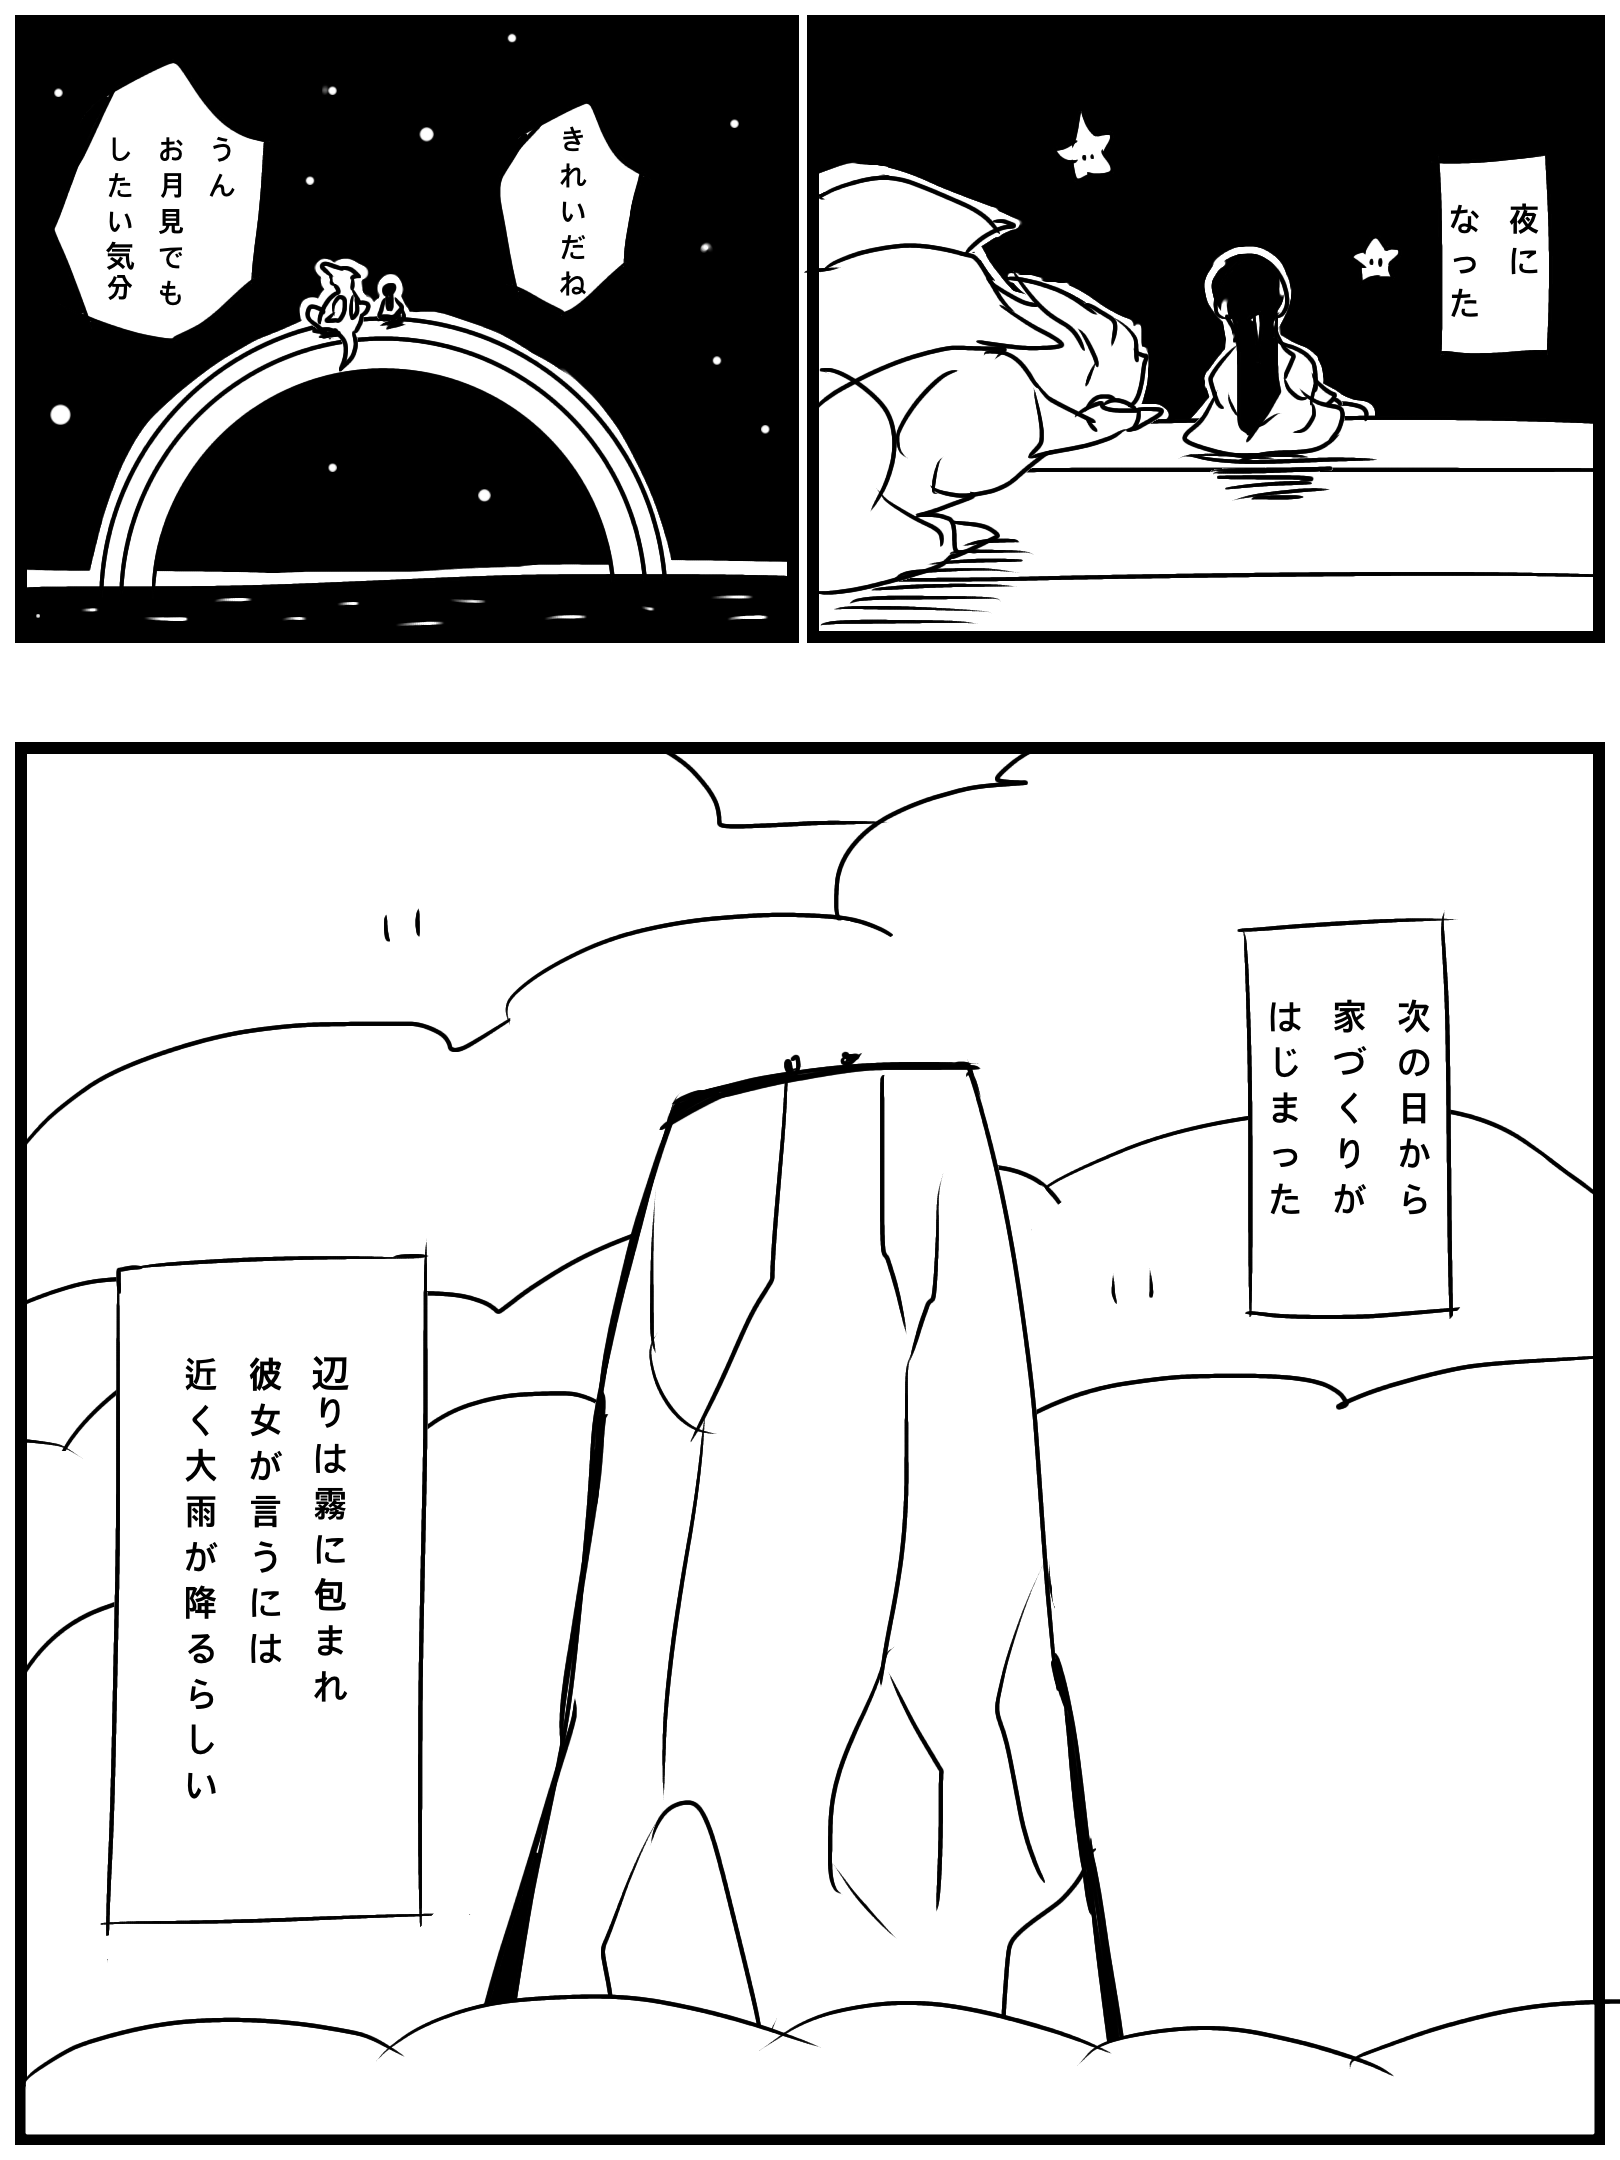
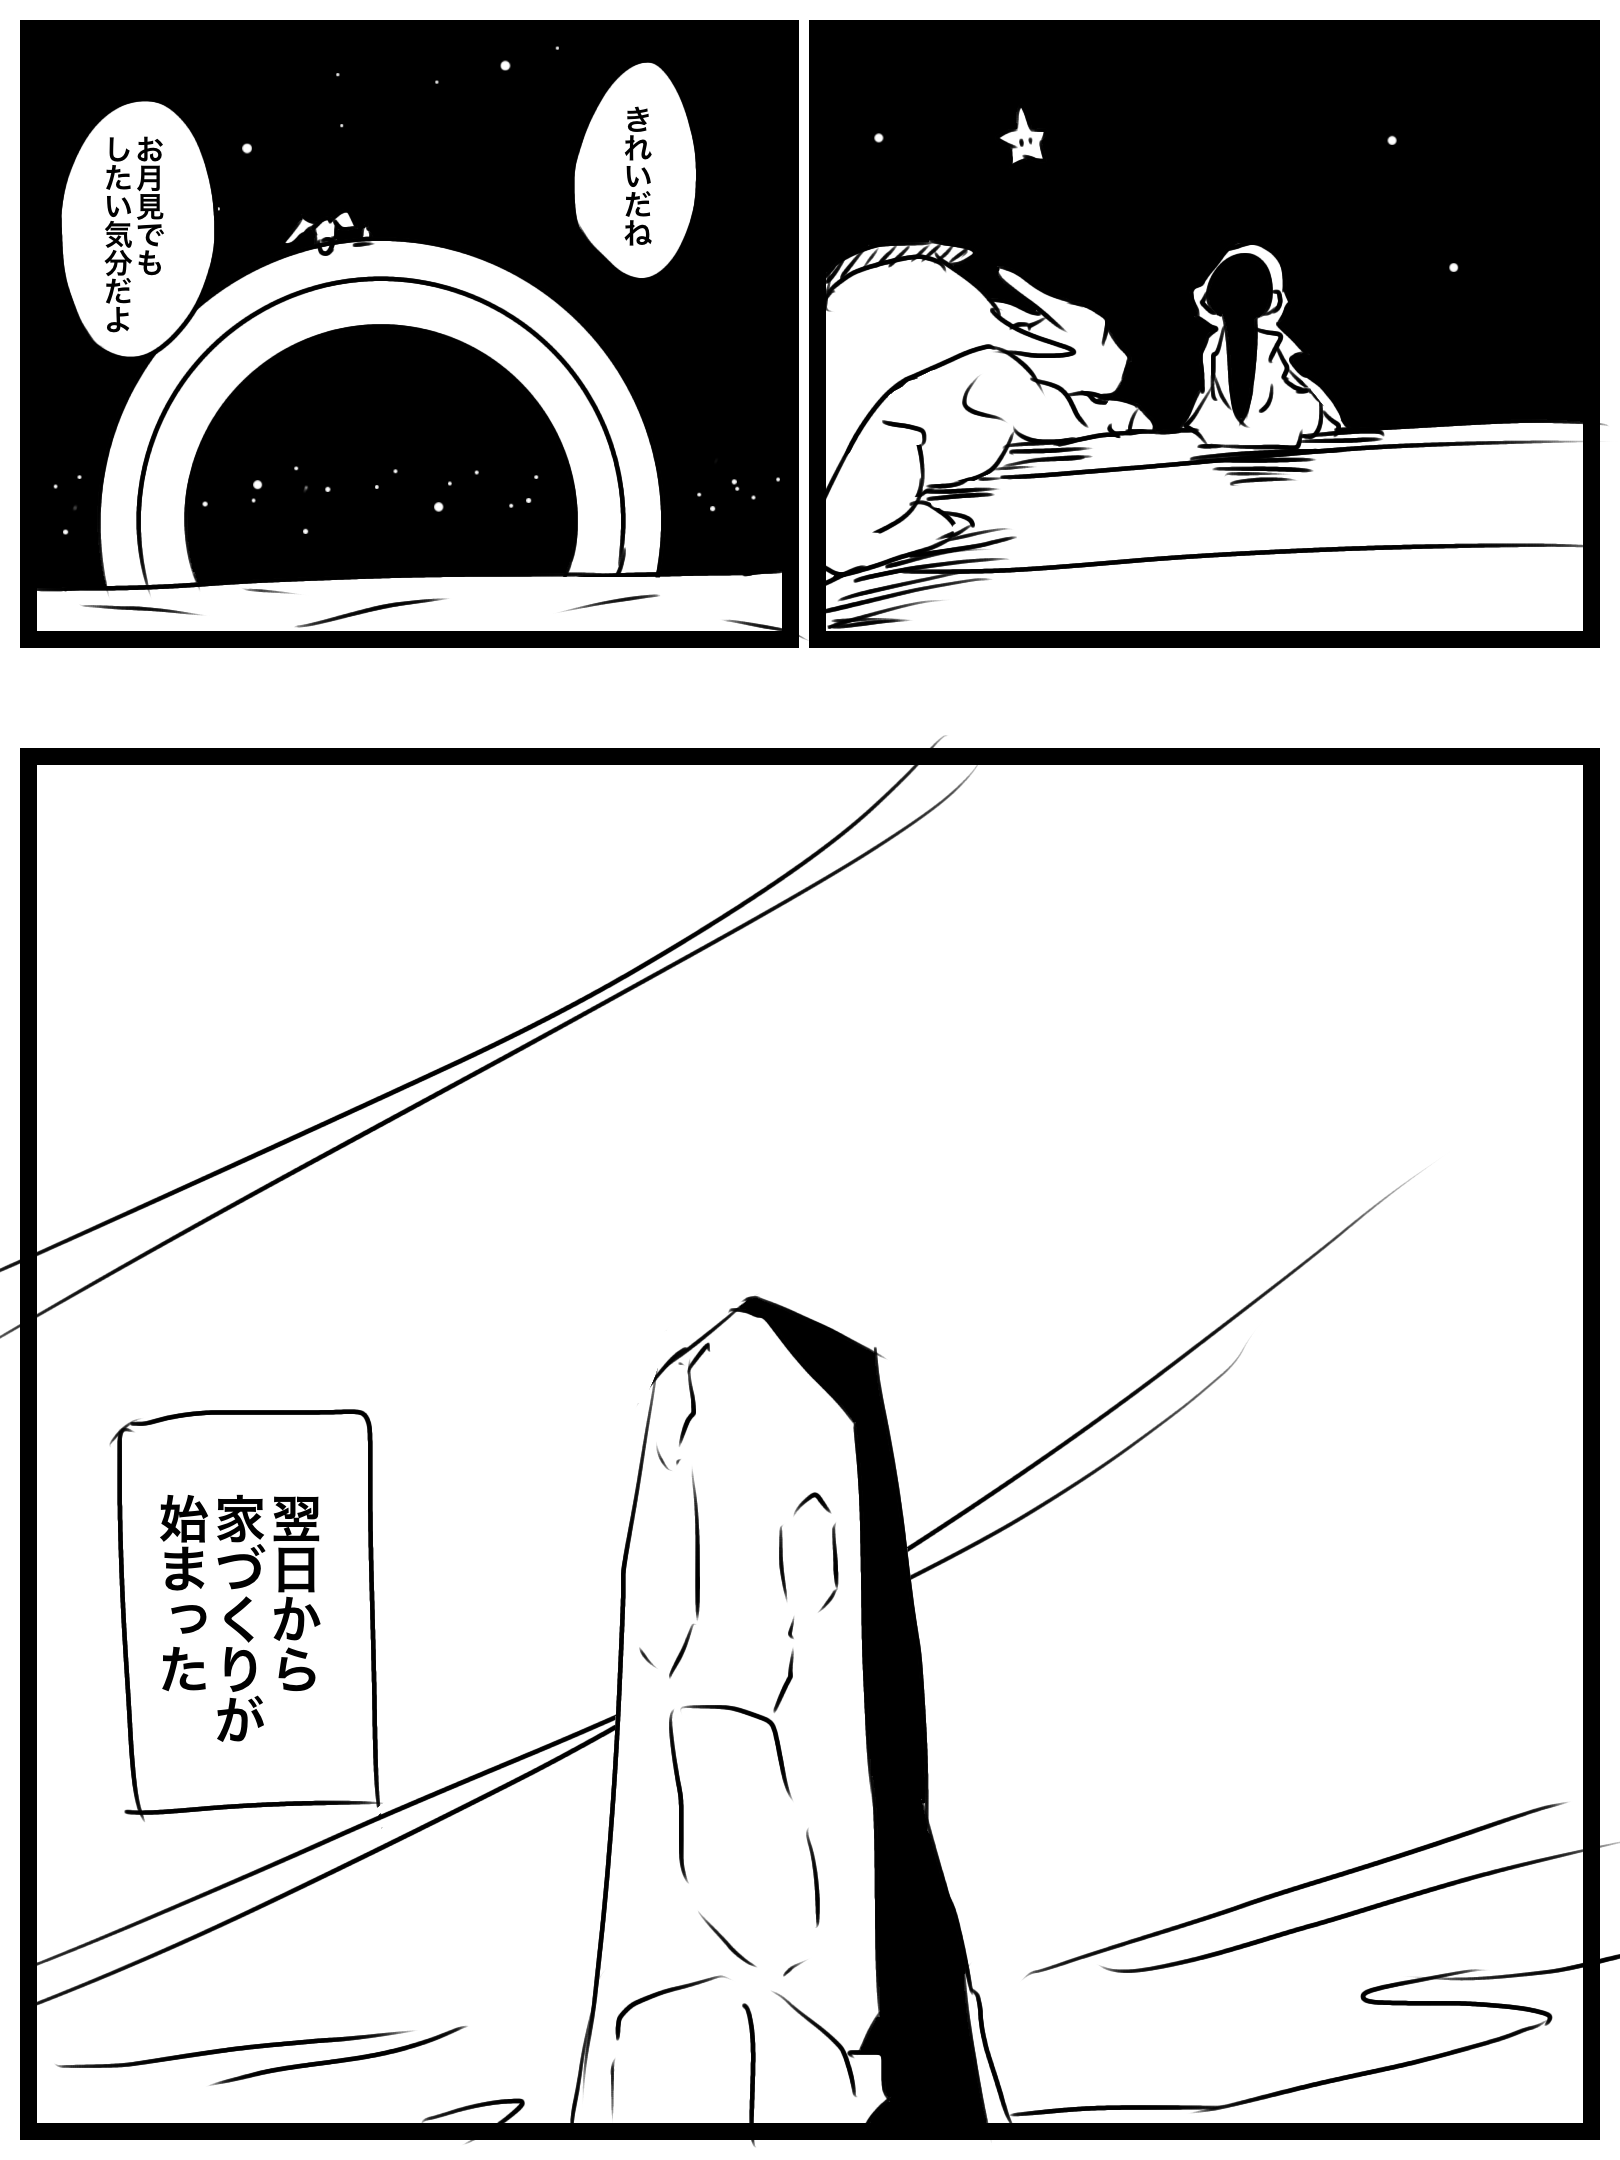
fix

diff --git a/content/blog/2022-05-07-manga.md b/content/blog/2022-05-07-manga.md
@@ -1,0 +1,29 @@
++++
+date = "2022-05-07"
+tags = ["manga","yui"]
+title = "漫画を書き直してる"
+slug = "manga"
++++
+
+この前、漫画に新しい話を追加したい気分だったので、書いてると、ストーリーが進むに連れ、どんどん絵が雑になっていき、最終的には下書きみたいになってしまったので、これはまずいと思い、過去コマの修正からやり直すことにしました。
+
+![](https://files.mastodon.social/media_attachments/files/108/258/586/466/983/571/original/3d9e1b4781eac1c7.jpg)
+
+### なぜ最初から書き直しているのか
+
+絵が雑になっていく理由はいくつかあります。
+
+私の場合は、さっさとストーリーを進めて、早く自分が思い描いているコマ(ゴール)にたどり着きたいからです。
+
+しかし、雑になりすぎたので、今まで作った漫画の過去コマ全部を書き直すことにしました。
+
+今読み直すと、納得できないコマがたくさんあります。
+
+この作業を通して、漫画の描き方がわかってくればと思います。(物語の変更はありません)
+
+ページ数が少ない段階でこの作業に取り組めてよかったと今は思います。
+
+しばらく修正が続きます
+
+[/ai/manga/](/ai/manga/)
+
